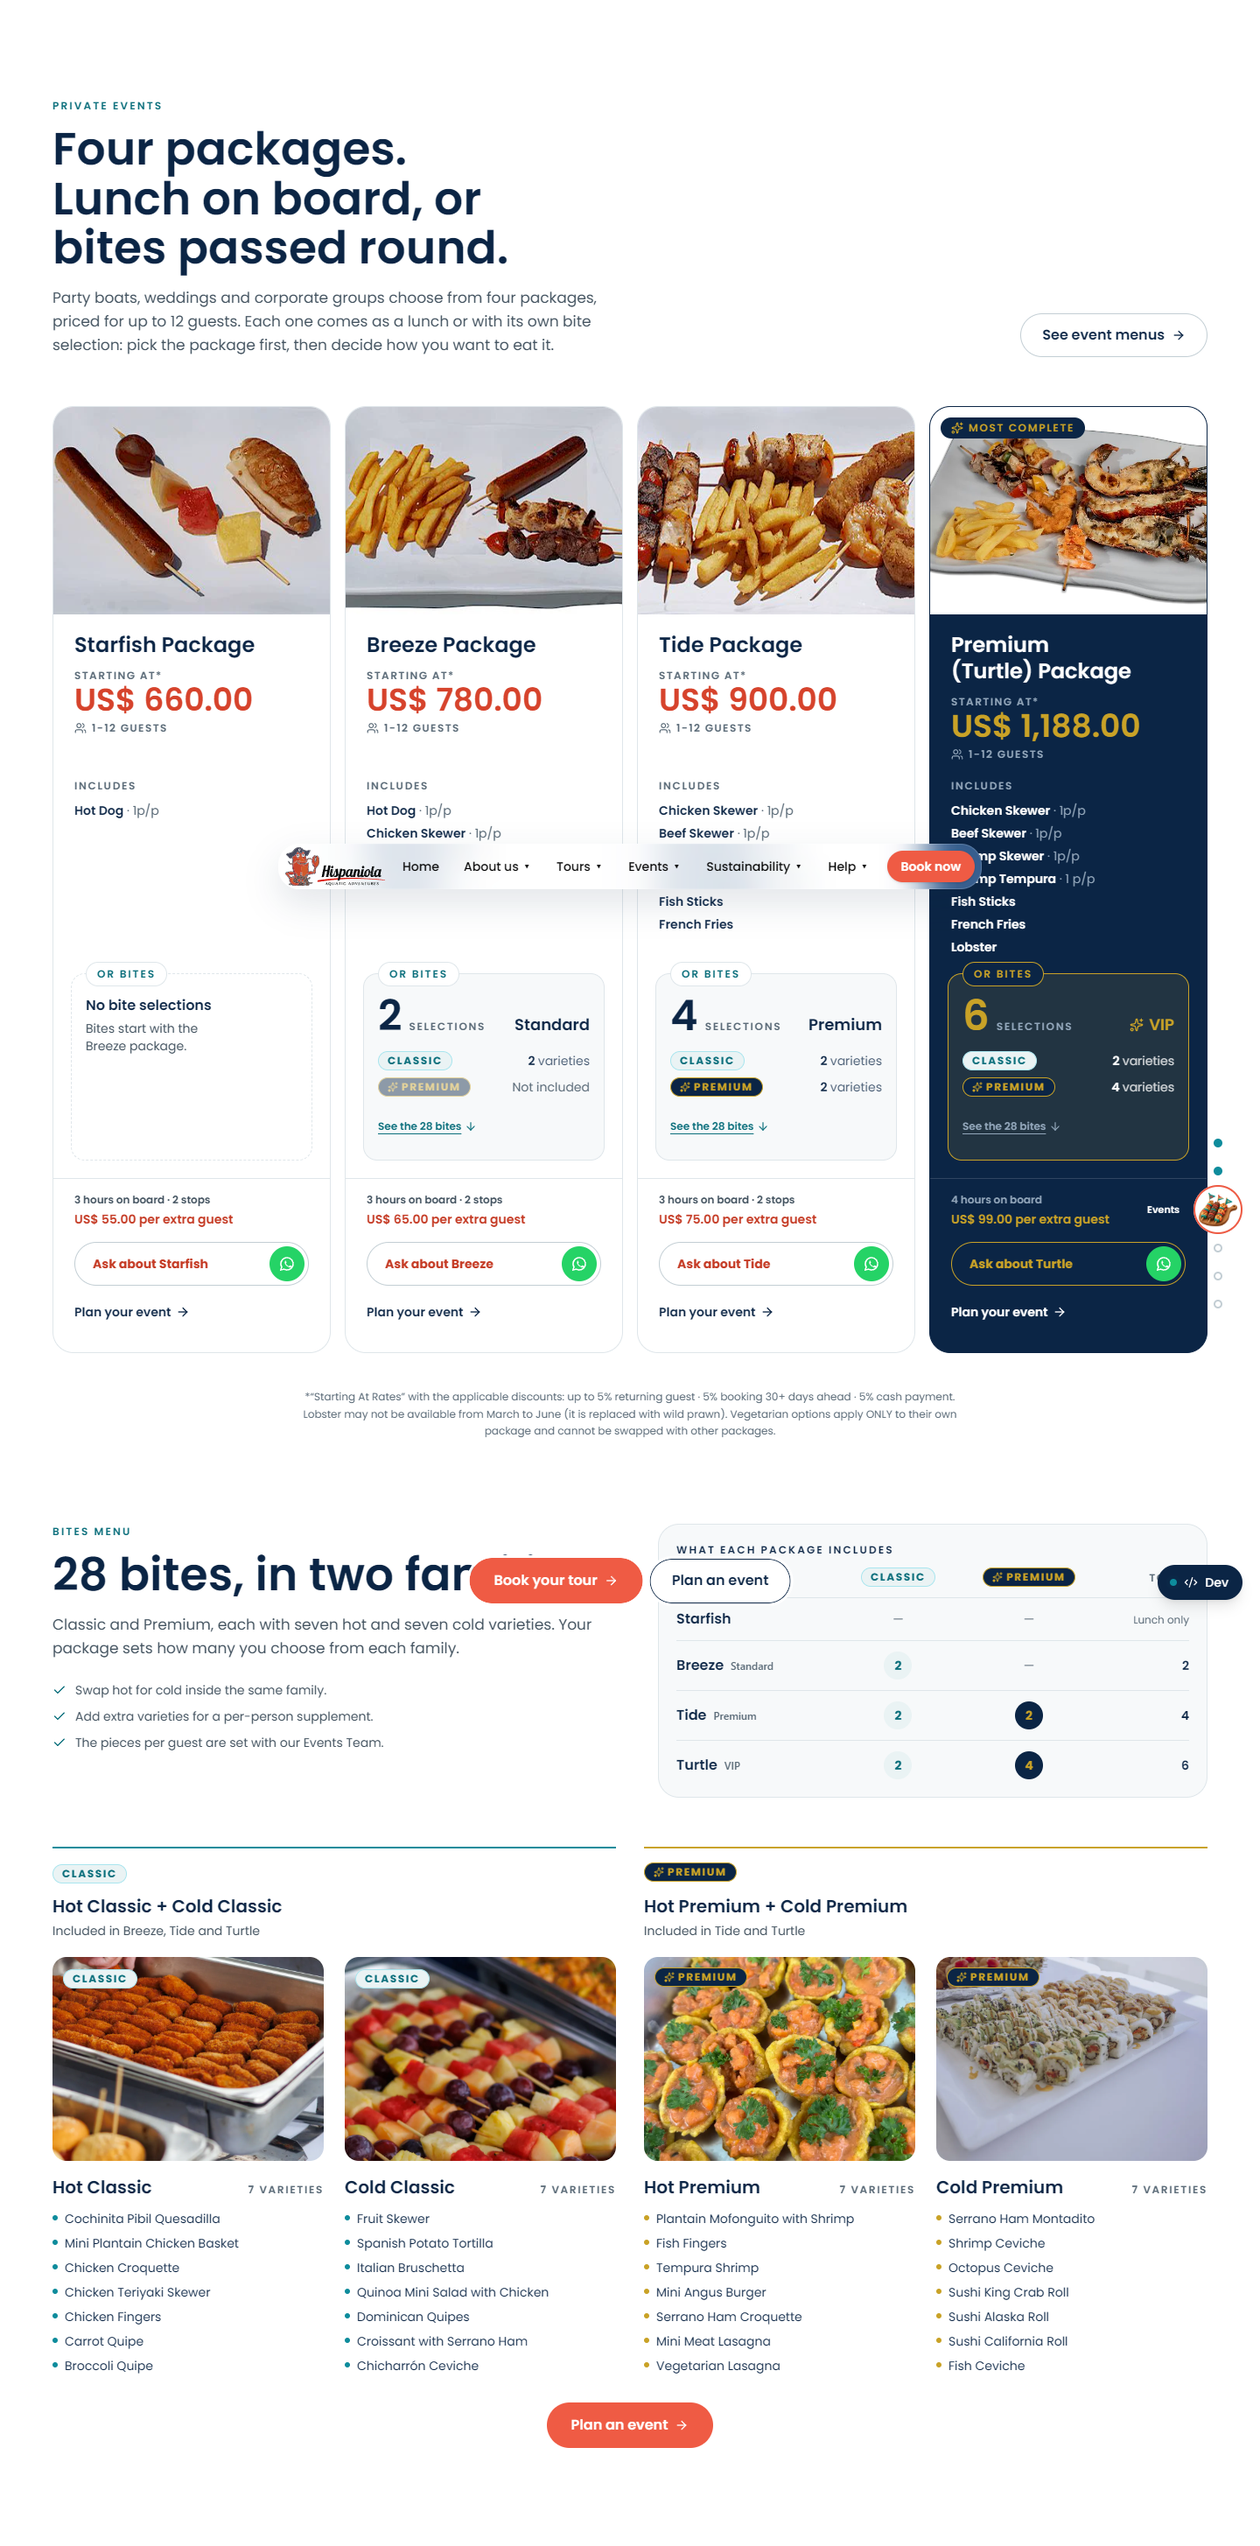
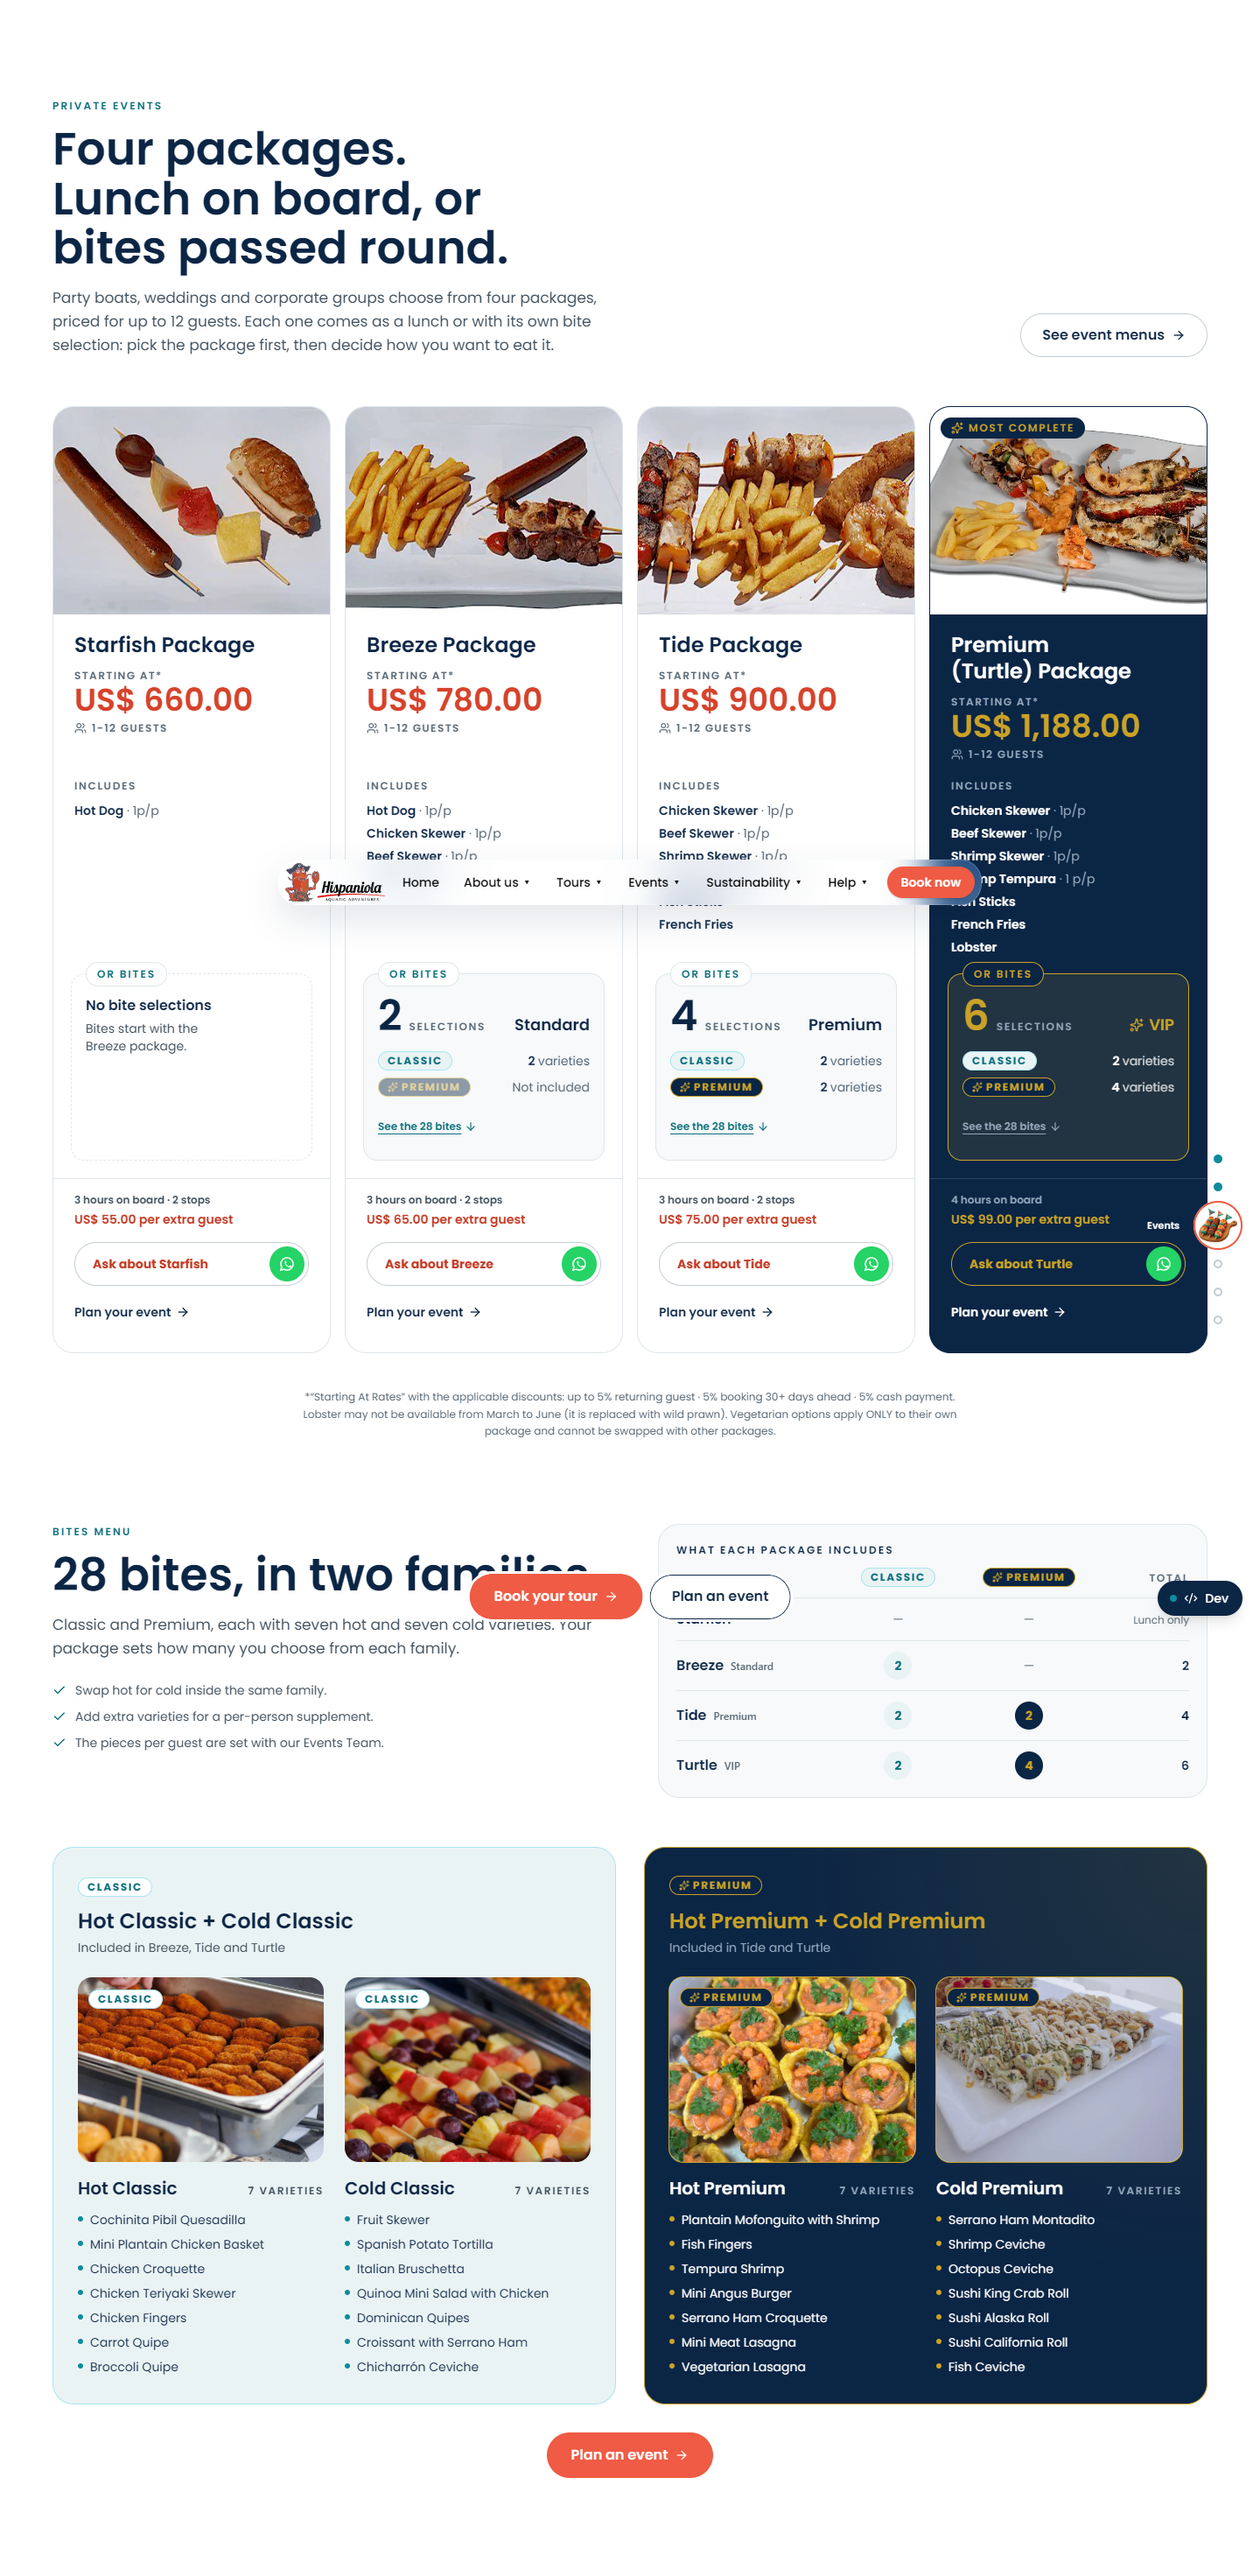
Canapés: cada familia en su caja, Classic en aqua claro y Premium en navy y oro (Samuel, 12/11)
- La carta separa las dos familias en dos cajas: Classic con el tinte aqua de
  marca y Premium en navy con borde y halo de oro (la piel del Turtle). Textos
  adaptados al fondo oscuro; contraste AA medido (mínimo 6,2:1).
- En móvil el selector sigue mandando y su pestaña activa toma el color de la
  caja (aqua-dark / navy con oro).
- «Turtle» en corto se queda como estaba.

diff --git a/app/src/components/comida-y-bar-v3/carta-canapes-v3.tsx b/app/src/components/comida-y-bar-v3/carta-canapes-v3.tsx
@@ -30,6 +30,11 @@ import { t } from '@/lib/i18n'
 //      Classic») y en qué paquetes entra («Included in Breeze, Tide and Turtle»).
 //   3. Cada lista repite la pastilla de su familia sobre la foto.
 // Todo sale de PAQUETES_COMIDA (`bocados`): si cambia un paquete, cambia aquí.
+//
+// [2026-11-12, 3ª vuelta, Samuel: «demasiado sutil»] Cada familia va DENTRO DE
+// SU CAJA: Classic en el tinte aqua (claro, fresco, de marca) y Premium en
+// navy con oro, la piel del Turtle. En móvil el selector sigue mandando: enseña
+// una caja u otra, y su pestaña activa toma el color de su caja.
 const C = CANAPES_TEXTOS.carta
 const PAQUETES = [...PAQUETES_COMIDA].sort((a, b) => (a.precioBase ?? 0) - (b.precioBase ?? 0))
 
@@ -72,13 +77,19 @@ function Familia({ f }: { f: FamiliaCanapes }) {
           <Pastilla familia={f.familia} />
         </div>
       </div>
-      <h4 className="mt-4 flex items-baseline justify-between gap-3 font-display text-xl font-semibold text-navy">
+      {/* [3ª vuelta] Dentro de la caja Premium (navy) el texto pasa a blanco
+          y el secundario a sobre-navy-suave (6,2:1 sobre navy, AA). */}
+      <h4
+        className={`mt-4 flex items-baseline justify-between gap-3 font-display text-xl font-semibold ${premium ? 'text-white' : 'text-navy'}`}
+      >
         {t(f.nombre)}
-        <span className="text-eyebrow font-semibold uppercase tracking-[0.14em] text-navy-soft">
+        <span
+          className={`text-eyebrow font-semibold uppercase tracking-[0.14em] ${premium ? 'text-sobre-navy-suave' : 'text-navy-sub'}`}
+        >
           {f.items.length} {t(C.variedades)}
         </span>
       </h4>
-      <ul className="mt-3 grid gap-2 text-sm text-navy">
+      <ul className={`mt-3 grid gap-2 text-sm ${premium ? 'text-white' : 'text-navy'}`}>
         {f.items.map((nombre) => (
           <li key={nombre} className="flex gap-2">
             <span className={`comida3-canapes-punto ${premium ? 'comida3-canapes-punto--premium' : ''}`} aria-hidden="true" />
@@ -181,7 +192,7 @@ export function CartaCanapesV3() {
             aria-controls={`${base}-panel-${fam}`}
             aria-selected={activa === fam}
             onClick={() => setActiva(fam)}
-            className="comida3-canapes-pestana"
+            className={`comida3-canapes-pestana comida3-canapes-pestana--${fam}`}
           >
             {fam === 'premium' ? <Sparkles className="size-4" aria-hidden="true" /> : null}
             {t(CANAPES_TEXTOS.tarjeta[fam])}
@@ -202,10 +213,12 @@ export function CartaCanapesV3() {
             >
               <header>
                 <Pastilla familia={fam} />
-                <p className="mt-3 font-display text-xl font-semibold text-navy">
+                <p className={`mt-3 font-display text-2xl font-semibold ${fam === 'premium' ? 'text-premium-oro' : 'text-navy'}`}>
                   {t(C.composicion).replace('{caliente}', t(listas[0].nombre)).replace('{fria}', t(listas[1].nombre))}
                 </p>
-                <p className="mt-1 text-sm text-navy-sub">{t(C.incluidoEn).replace('{paquetes}', incluidaEn(fam))}</p>
+                <p className={`mt-1 text-sm ${fam === 'premium' ? 'text-sobre-navy-suave' : 'text-navy-sub'}`}>
+                  {t(C.incluidoEn).replace('{paquetes}', incluidaEn(fam))}
+                </p>
               </header>
               <div className="grid gap-8 sm:grid-cols-2 sm:gap-6">
                 {listas.map((f) => (

diff --git a/app/src/styles/comida-y-bar-v3.css b/app/src/styles/comida-y-bar-v3.css
@@ -1061,24 +1061,50 @@
   font-weight: 600;
   color: var(--color-navy-sub);
 }
-.comida3-canapes-pestana[aria-selected='true'] {
-  background: var(--color-navy);
+/* [3ª vuelta] La pestaña activa toma el color de la caja que enseña:
+   Classic = aqua-dark con blanco (5,6:1), Premium = navy con oro (6,5:1). */
+.comida3-canapes-pestana--classic[aria-selected='true'] {
+  background: var(--color-aqua-dark);
   color: var(--color-papel);
 }
-.comida3-canapes-pestana[aria-selected='true'] svg {
+.comida3-canapes-pestana--premium[aria-selected='true'] {
+  background: var(--color-navy);
   color: var(--color-premium-oro);
 }
+/* [3ª vuelta, 2026-11-12, Samuel: «demasiado sutil»] Cada familia, en SU
+   caja. Classic: el tinte aqua de marca, claro y fresco (navy 14:1, navy-sub
+   7:1, aqua-dark 5,2:1 sobre él: AA). Premium: navy con un halo de oro en la
+   esquina y borde oro, la misma piel que el Turtle (blanco 15:1, oro 6,5:1,
+   sobre-navy-suave 6,2:1: AA). */
 .comida3-canapes-grupo {
-  gap: calc(var(--spacing) * 5);
+  gap: calc(var(--spacing) * 6);
   align-content: start;
-  border-top: 2px solid var(--color-navy);
-  padding-top: calc(var(--spacing) * 4);
-}
-.comida3-canapes-grupo--premium {
-  border-top-color: var(--color-premium-oro);
+  border: 1px solid transparent;
+  border-radius: var(--radius-card-grande);
+  padding: calc(var(--spacing) * 6) calc(var(--spacing) * 5);
 }
 .comida3-canapes-grupo--classic {
-  border-top-color: var(--color-aqua);
+  border-color: var(--color-aqua-claro);
+  background: var(--color-aqua-tint);
+}
+.comida3-canapes-grupo--premium {
+  border-color: var(--color-premium-oro);
+  background:
+    radial-gradient(circle at 100% 0%, var(--color-premium-oro-suave), transparent 55%),
+    var(--color-navy);
+}
+/* La pastilla Classic sobre su propia caja (que tiene el mismo tinte): en papel. */
+.comida3-canapes-grupo--classic .comida3-familia--classic {
+  background: var(--color-papel);
+}
+/* Las fotos dentro de la caja Premium, con un filete de oro. */
+.comida3-canapes-grupo--premium .comida3-canapes-foto {
+  box-shadow: 0 0 0 1px var(--color-premium-oro);
+}
+@media (width >= 40rem) {
+  .comida3-canapes-grupo {
+    padding: calc(var(--spacing) * 8) calc(var(--spacing) * 7);
+  }
 }
 .comida3-canapes-foto {
   position: relative;
